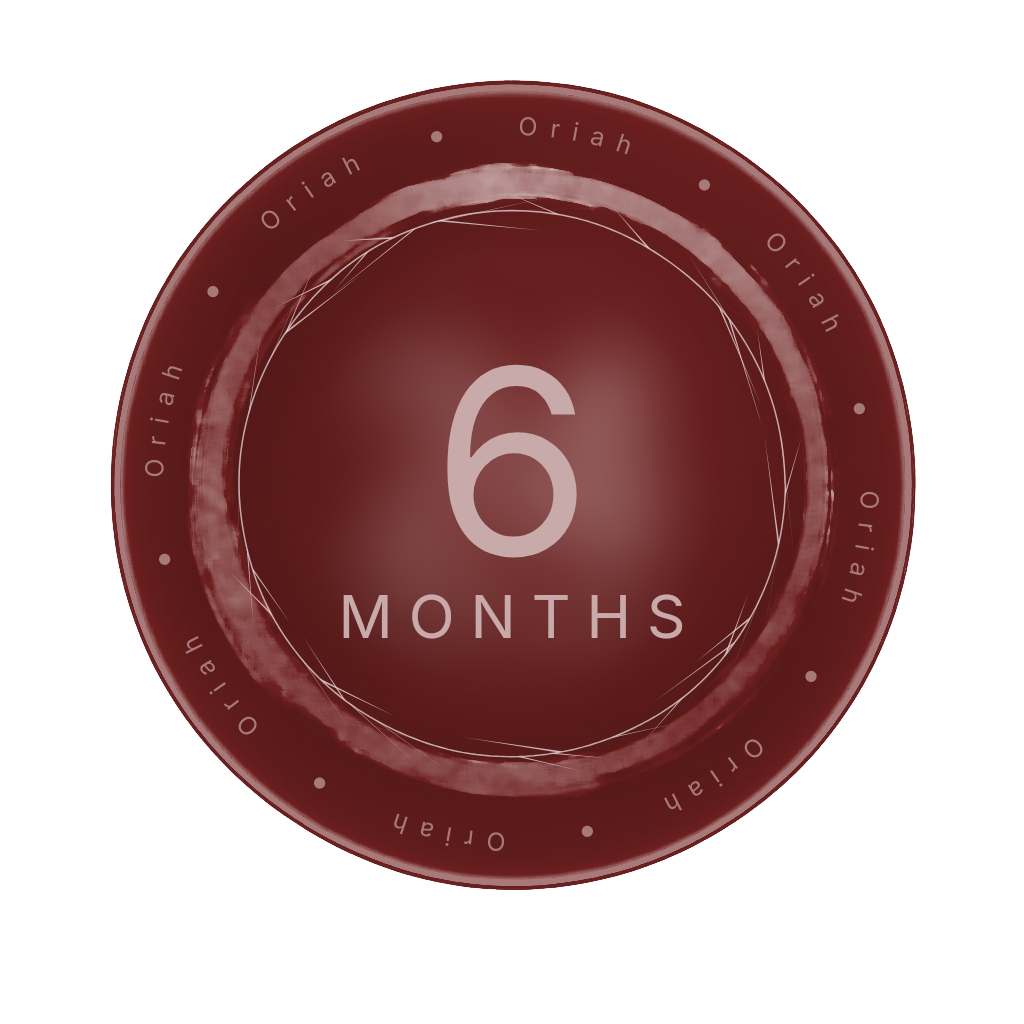
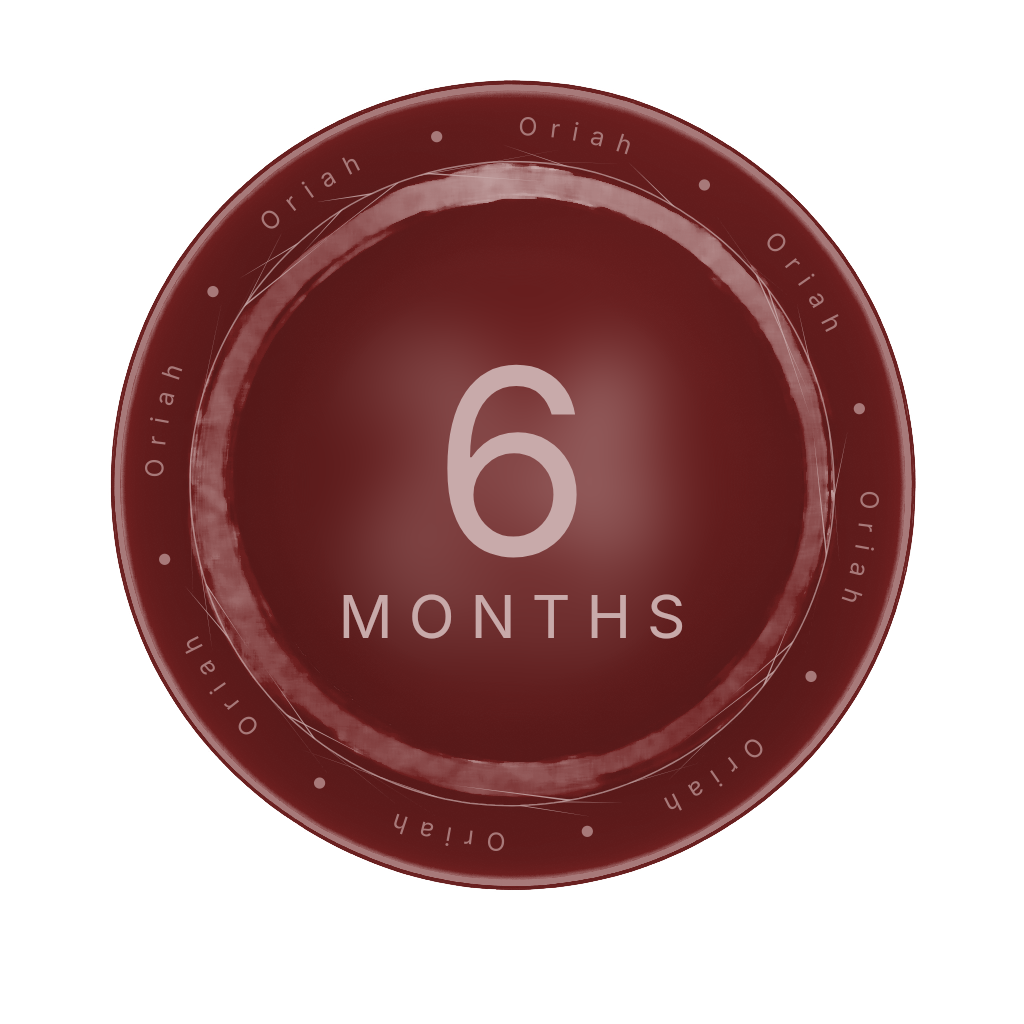
Oriah preview v7: branch on chrome ring centerline + thorns match date text color

diff --git a/oriah-badges-staging/scripts/generate-oriah-badges.ts b/oriah-badges-staging/scripts/generate-oriah-badges.ts
@@ -374,50 +374,36 @@ function drawMicroTypography(ctx: SKRSContext2D, hex: string) {
   ctx.drawImage(layer, 0, 0)
 }
 
-// Crown of thorns — a thin twisted branch sitting INSIDE the chrome ring,
-// with thorns spiking out across the ring's brushwork so the crown reads
-// as part of the chrome ring itself rather than a separate inner element.
+// Crown of thorns — a thin twisted branch sitting at the chrome ring's
+// dead centerline, with thorns spiking out across the brushwork. Color
+// matches the date text so the crown, the duration text, and the Oriah
+// outer band all read as one uniform color family.
 function drawCrownOfThorns(ctx: SKRSContext2D, hex: string) {
-  // Branch sits on the chrome ring's INNER smudge band — the visible
-  // lighter brushwork ring just past the inner-disc edge.
-  const branchR = 273
+  // Branch sits exactly at the chrome ring's centerline (~r=322).
+  // The chrome ring brushwork spans roughly r=265–380; mid-band is 322.
+  const branchR = 322
 
-  // Adaptive thorn color tuned for pop: deep dark tone on light badges,
-  // bright lifted tone on dark badges, both with high alpha so the crown
-  // reads cleanly against every coin's base color.
+  // Use the same lightened-tint color as the date text (lighten 0.62)
+  // so thorns, numeral, label, and Oriah micro-text all match in hue.
   const [r, g, b] = hexToRgb(hex)
-  const badgeLum = (r * 0.299 + g * 0.587 + b * 0.114) / 255
-  let tr: number, tg: number, tb: number, strokeA: number, fillA: number
-  if (badgeLum > 0.5) {
-    // Light badge — push hard toward black for engraved contrast.
-    tr = Math.round(r * 0.25)
-    tg = Math.round(g * 0.25)
-    tb = Math.round(b * 0.25)
-    strokeA = 0.85
-    fillA = 0.9
-  } else {
-    // Dark badge — push hard toward white so the crown pops.
-    tr = Math.round(r + (255 - r) * 0.78)
-    tg = Math.round(g + (255 - g) * 0.78)
-    tb = Math.round(b + (255 - b) * 0.78)
-    strokeA = 0.8
-    fillA = 0.85
-  }
-  const stroke = `rgba(${tr}, ${tg}, ${tb}, ${strokeA})`
-  const fill   = `rgba(${tr}, ${tg}, ${tb}, ${fillA})`
+  const k = 0.62
+  const tr = Math.round(r + (255 - r) * k)
+  const tg = Math.round(g + (255 - g) * k)
+  const tb = Math.round(b + (255 - b) * k)
+  const stroke = `rgba(${tr}, ${tg}, ${tb}, 0.7)`
+  const fill   = `rgba(${tr}, ${tg}, ${tb}, 0.85)`
 
   let seed = 1337
   const rand = () => {
     seed = (seed * 1664525 + 1013904223) % 0x100000000
     return seed / 0x100000000
   }
-  // Subtle wobble — keeps the branch organic without veering off the circle.
   const noise = (t: number) =>
     Math.sin(t * 3.1) * 0.5 + Math.sin(t * 7.7 + 1.3) * 0.3 + Math.sin(t * 13.4 + 2.7) * 0.1
 
   ctx.save()
 
-  // 1. Woven branch — tracing the mid-band of the chrome ring.
+  // 1. Woven branch — tracing the chrome ring centerline.
   ctx.beginPath()
   const ringPoints = 240
   for (let i = 0; i <= ringPoints; i++) {
@@ -433,8 +419,8 @@ function drawCrownOfThorns(ctx: SKRSContext2D, hex: string) {
   ctx.lineJoin = 'round'
   ctx.stroke()
 
-  // 2. Thorns — shorter than v4 so they stay within the chrome ring band
-  //    (no overflow into the outer halo). Bases consistent in width.
+  // 2. Thorns — sized so they stay inside the chrome ring band on both
+  //    sides of the centerline (no overflow into halo or inner disc).
   type Thorn = {
     angle: number
     len: number
@@ -449,30 +435,28 @@ function drawCrownOfThorns(ctx: SKRSContext2D, hex: string) {
   }
 
   const thorns: Thorn[] = []
-  // Outward thorns — extend into the chrome ring's brushwork.
-  // Branch at 273 + max 24 = 297 → sits within the inner half of the ring.
+  // Outward: branch 322 + max 22 = 344 → still inside ring outer (~380).
   const N_OUT = 28
   for (let i = 0; i < N_OUT; i++) {
     const evenly = (i / N_OUT) * Math.PI * 2
     const jitter = (rand() - 0.5) * (Math.PI * 2 / N_OUT) * 0.7
     thorns.push({
       angle: evenly + jitter,
-      len: 14 + rand() * 10,    // 14–24 px
+      len: 12 + rand() * 10,
       side: 1,
       skew: skewed(),
-      base: 2.4 + rand() * 1.0, // 2.4–3.4 px
+      base: 2.4 + rand() * 1.0,
     })
   }
-  // Inward thorns — branch at 273 - max 18 = 255 → just nips into the
-  // inner disc edge, hugging the date area like a crown around a head.
+  // Inward: branch 322 - max 18 = 304 → stays inside ring inner (~265).
   const N_IN = 14
   for (let i = 0; i < N_IN; i++) {
     thorns.push({
       angle: rand() * Math.PI * 2,
-      len: 10 + rand() * 8,     // 10–18 px
+      len: 10 + rand() * 8,
       side: -1,
       skew: skewed(),
-      base: 2.0 + rand() * 0.9, // 2.0–2.9 px
+      base: 2.0 + rand() * 0.9,
     })
   }
 
